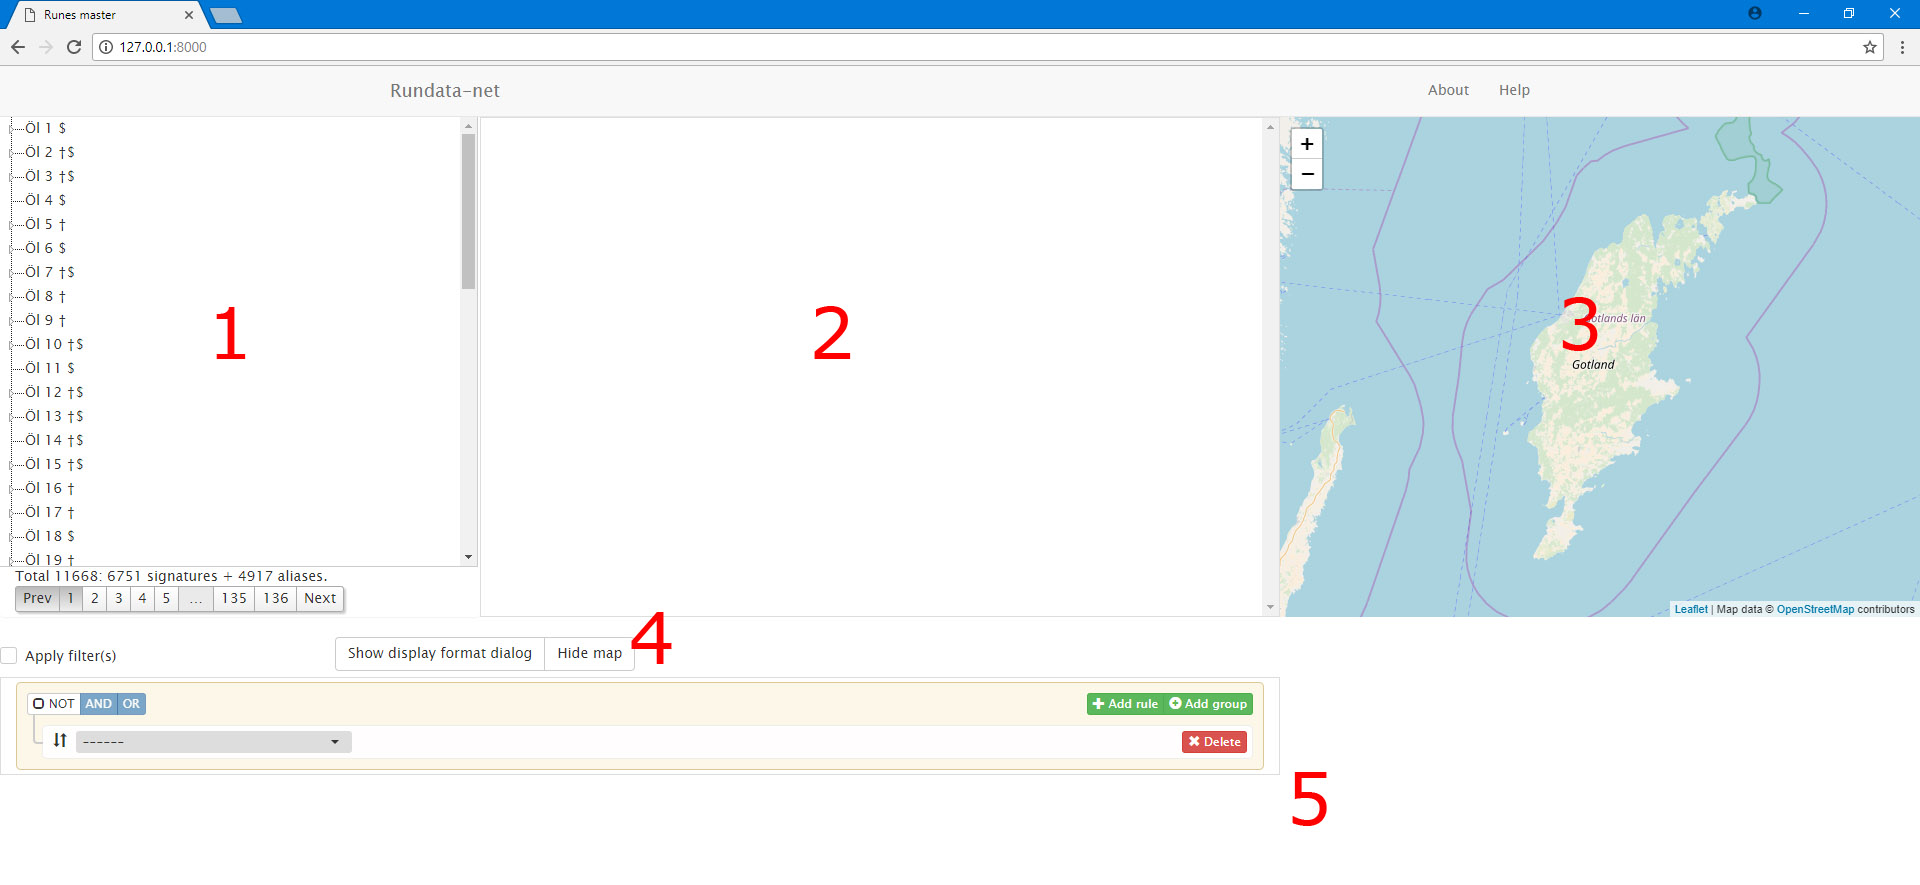
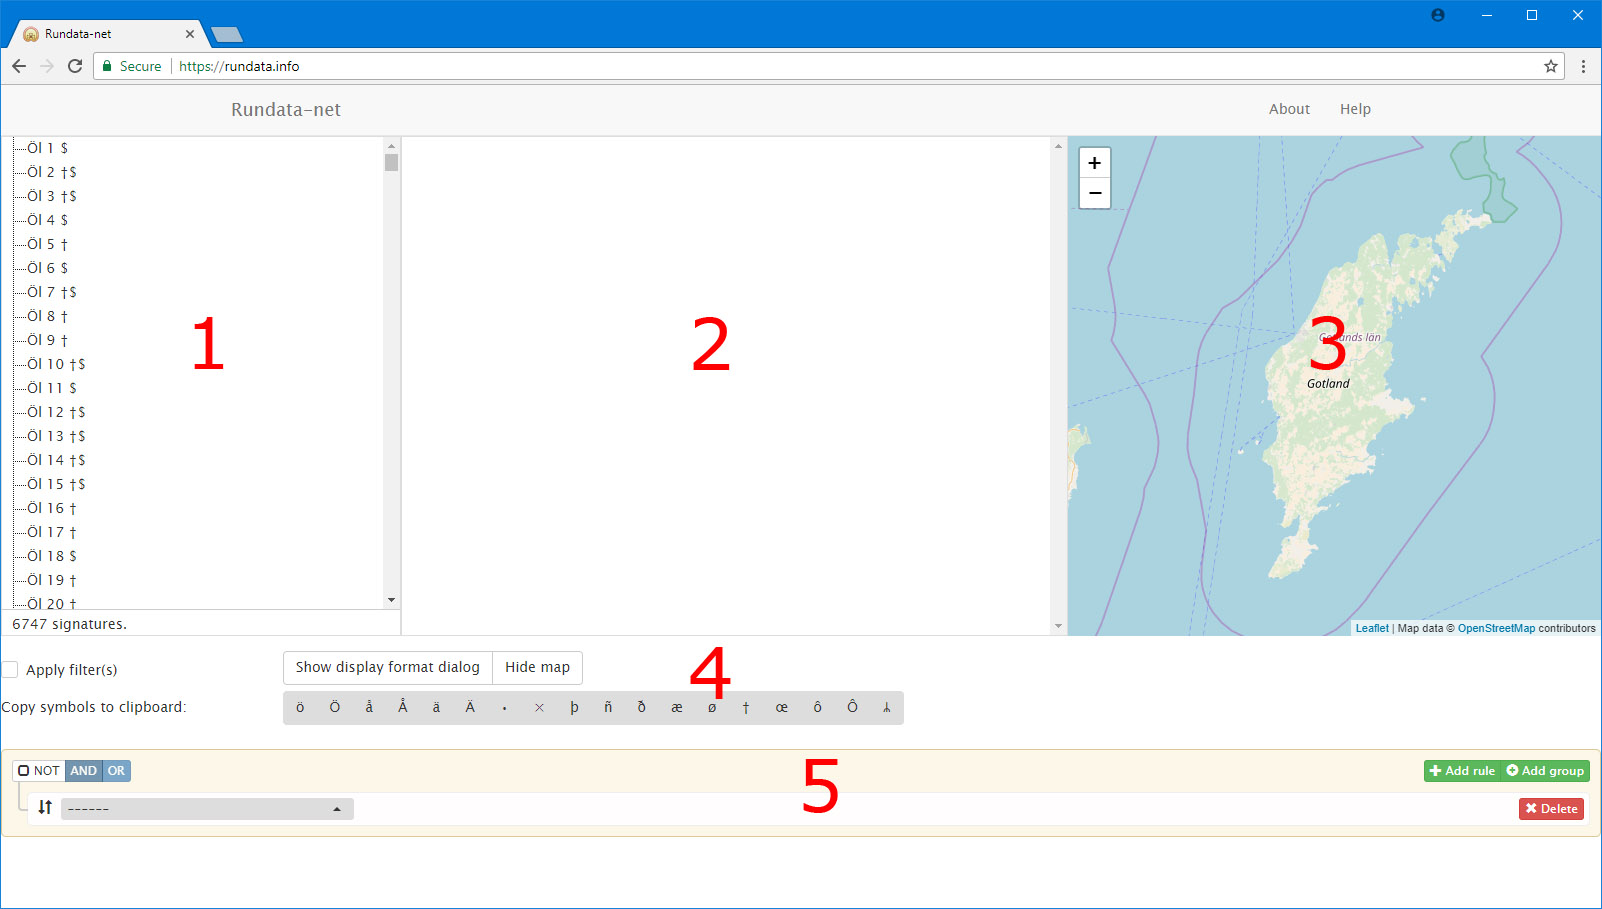
Update documentation

diff --git a/docs/getting-started/user_guide.rst b/docs/getting-started/user_guide.rst
@@ -6,7 +6,7 @@ Quick user guide
 
 This section gives a quick introduction to Rundata-net interface.
 
-Rundata-net is essentially an interface to a database. Since the database doesn't change very often, I adopted a rather radical approach in accessing it. Most of the site functions are executed inside user's browser, including the database. When you open the main page, it takes some time to load the site. This is the point where the database is transfered to you. Once it is transfered, the rest of functionality should be quick.
+Rundata-net is essentially an interface to a database. Since the database doesn't change very often, I adopted a rather radical approach in accessing it. Most of the site functions are executed inside user's browser, including the database. When user opens the main page, it takes some time to load the site. This is the point where the database is transfered to user's computer. Once it is transfered, the rest of functionality should be rather quick.
 
 The main page is divided into several areas which I refer to as panels. They are shown with numbers in the image below.
 
@@ -16,62 +16,148 @@ The main page is divided into several areas which I refer to as panels. They are
 
 From left to right and from top to bottom:
 
-#. List of inscription aliases. It's a tree view where each node corresponds
-   to individual inscription. Some inscriptions have child node which are
-   aliases. An alias is simply a different ID of a particular inscription.
-   Aliases contains the same information as their parent. If you select one or
-   multiple inscriptions then the information about them in displayed in
-   panel #2 (main display). There are around 10 000 inscriptions in
-   the database. I guess no one would want to select all of them at once,
-   so their display is organized in pages. Each page contains maximum of
-   100 inscriptions. This is called pagination. When you do a search,
-   chances are that you will end up with less than 100 inscriptions,
-   so they all will be available for selection on a single page.
+#. List of inscriptions with information about amount of inscriptions.
 
-   Below the list of inscriptions you will see a status box saying how many
-   inscription is available for selection.
+#. Main display.
 
-   Pagination control. Allows you to navigate through pages.
+#. Map display.
 
-#. Main display. This is a text are that will show information about selected
-   inscriptions. It is possible to adjust what kind of information will be
-   selected. Use 'show display format dialog' button for this. The main
-   display imitates editable behaviour. This means that if you click on it,
-   you are able to type in or delete text. This is done in order to support
-   keyboard navigation and shortcuts for text: select all, copy, paste.
+#. Several horizontal panels of control elements and buttons.
 
-#. Map. Shows a place mark for selected inscriptions if coordinates
-   are available. It shows the found location of inscription and not
-   the current location. It is known, that some coordinates are wrong.
-   Since Rundata-net is simply a different view program for SMDB,
-   it inherits SMDB's flaws.
+#. Query builder.
 
-#. Horizontal panel of control elements and buttons.
+Below is the description of each of these labels.
 
-   :guilabel:`Apply filter(s)`. A check box that control filters are applied
-   or not. When user searches for something in the database, she essentially
-   filters inscriptions. Hence the name.
+List of inscriptions
+====================
 
-   :guilabel:`Show display format dialog` button toggles the display format
-   dialog. On that dialog you can select what information will be shown on
-   the main display.
+It's a list where each node corresponds to an individual inscription. Some
+inscriptions changed their name/ID throughout years. One example is isncription
+:samp:`Öl 2`, which had names :samp:`B 1076` and :samp:`L 1324`. The list of
+inscriptions contains the most recent names only, i.e. no :samp:`B 1076` nor
+:samp:`L 1324`. The former names (if any) are presented on the
+:ref:`main display<main-display-info>` when inscription is selected.
 
-   :guilabel:`Hide map` button. Does what it says.
+When user selects inscriptions in the list, the information about them is
+displayed on the :ref:`main display<main-display-info>` panel. It is possible
+to select a single inscription or multiple. General selection principles
+applies for selecting multiple inscriptions: use :kbd:`Control` to add
+individual inscription to selection, use :kbd:`Shift` to add a selection.
 
-#. Query builder. This is the area where you will build your
-   queries/searches/filters to the database. A query consists of rules, which
-   can be grouped into groups. Groups and rules are connected by gray lines
-   helping you to trace the relations. Each group has a set of logical
-   operators in it's upper left corner: NOT, AND, OR. They describe how rules
-   inside the group are combined together (AND, OR) and if the group condition
-   should be inversed (NOT). Each rule consists of a filter name, which
-   is followed by operators and value fields. You can see various search
-   example in 'How to search section'. You can create, delete and rearrange
-   rules/groups with drag and drop.
+Below the list of inscriptions you will see a status text saying how many
+inscription is available for selection. This can be useful when you perform
+a search. Status text will give you the number of results.
 
-   The idea behind query builder was to make it user friendly. Search in
-   the original Rundata is performed with help of regular expressions. This is
-   a powerful tool when you master it. It allows one to search by writing such
-   beauties as {b/t}{a/o}. You might need more clicks and a bit more typing
-   with a query builder, but the representation of rules in query builder is
-   more user friendly.
+.. _main-display-info:
+
+Main display
+============
+
+.. image:: /_static/main-display-example.jpg
+  :width: 100 %
+  :alt: Example of information presented on the main display
+
+This is a text area that shows information about selected
+inscriptions. It is possible to adjust what kind of information is displayed.
+Use 'show display format dialog' button for this.
+
+The main display imitates editable behaviour. This means that if you click on it,
+you are able to type in or delete text. This is done in order to support
+keyboard navigation and shortcuts for text: select all, copy, paste. This
+addresses a scenario where one would like to take all the information provided
+by Rundata-net and bring it to another program/app. Simply click on the main
+display, select all text, open another application and paste the text there.
+
+.. _map-info:
+
+Map display
+===========
+
+Map shows place marks for selected inscriptions if coordinates
+are available. It shows the found location of inscription and not
+the current location. It is known that some coordinates are wrong.
+Since Rundata-net is simply a different view program for SMDB,
+it inherits SMDB's flaws.
+
+When a placemark is clicked, the main display is scrolled so that the inscription
+referenced by that placemark is visible.
+
+Control panels
+==============
+
+There are several horizontal panels of control elements and buttons.
+
+Filter control
+--------------
+
+:guilabel:`Apply filter(s)`. A check box that control whether filters are applied
+or not. Filters are built with :ref:`query builder<query-builder-info>`. Checking
+:guilabel:`Apply filter(s)` performs a search in the database if there are any
+filters. When :guilabel:`Apply filter(s)` is unchecked, then all the inscriptions
+from the database are visible in the list.
+
+Format dialog
+-------------
+
+.. image:: /_static/format-dialog-example.jpg
+  :width: 100 %
+  :alt: Example of format dialog
+
+:guilabel:`Show display format dialog` button toggles the display format
+dialog. Using this dialog window user can select what information will be shown on
+the main display for each individual inscription.
+
+List on the left contains fields available for selection. List on the right
+contains fields selected for display. It is possible to rearrange the order
+of selected fields by using two buttons located under the right list.
+
+Changes in selected fields are applied when dialog is closed by clicking
+on :guilabel:`Hide display format dialog`.
+
+:guilabel:`Display headers` checkbox is used to control whether field headers
+are presented on the main display or not. Compare these two images. Left version
+has headers turned on. Right version has headers turned off.
+
+.. image:: /_static/headers-on.jpg
+  :width: 49 %
+  :alt: Display headers on
+
+.. image:: /_static/headers-off.jpg
+  :width: 49 %
+  :alt: Display headers off
+
+Map visibility control
+----------------------
+
+:guilabel:`Hide map`/:guilabel:`Show map` button. Does what it says.
+
+Special symbols
+---------------
+
+This horizontal panel contains a button list with special symbols. It contains
+symbols that might be not readily available on user's keyboard layout. Click on
+each symbol's button copies that symbol in clipboard. This panel can be useful
+when entering text in filters.
+
+.. _query-builder-info:
+
+Query builder
+=============
+
+This is the area where user builds queries/searches/filters for the database.
+A query consists of rules, which can be grouped. Groups and rules are connected
+by gray lines on the left helping user to trace relations. Each group has a set
+of logical operators presented in it's upper left corner: NOT, AND, OR.
+Operators describe how rules inside the group are combined together (AND, OR)
+and if the group condition should be inversed (NOT). Each rule consists of
+a rule's name followed by operator and rule's value. You can see various search
+example in 'How to search section' (**not available yet**). User can create,
+delete and rearrange rules/groups with drag and drop.
+
+The idea behind query builder was to make it user friendly. Search in
+the original Rundata is performed with help of regular expressions. This is
+a powerful tool when you master it. It allows one to search by writing such
+beauties as ``{b/t}{a/o}``. You might need more clicks and a bit more typing
+with a query builder, but the representation of rules in query builder is
+more user friendly.
+
